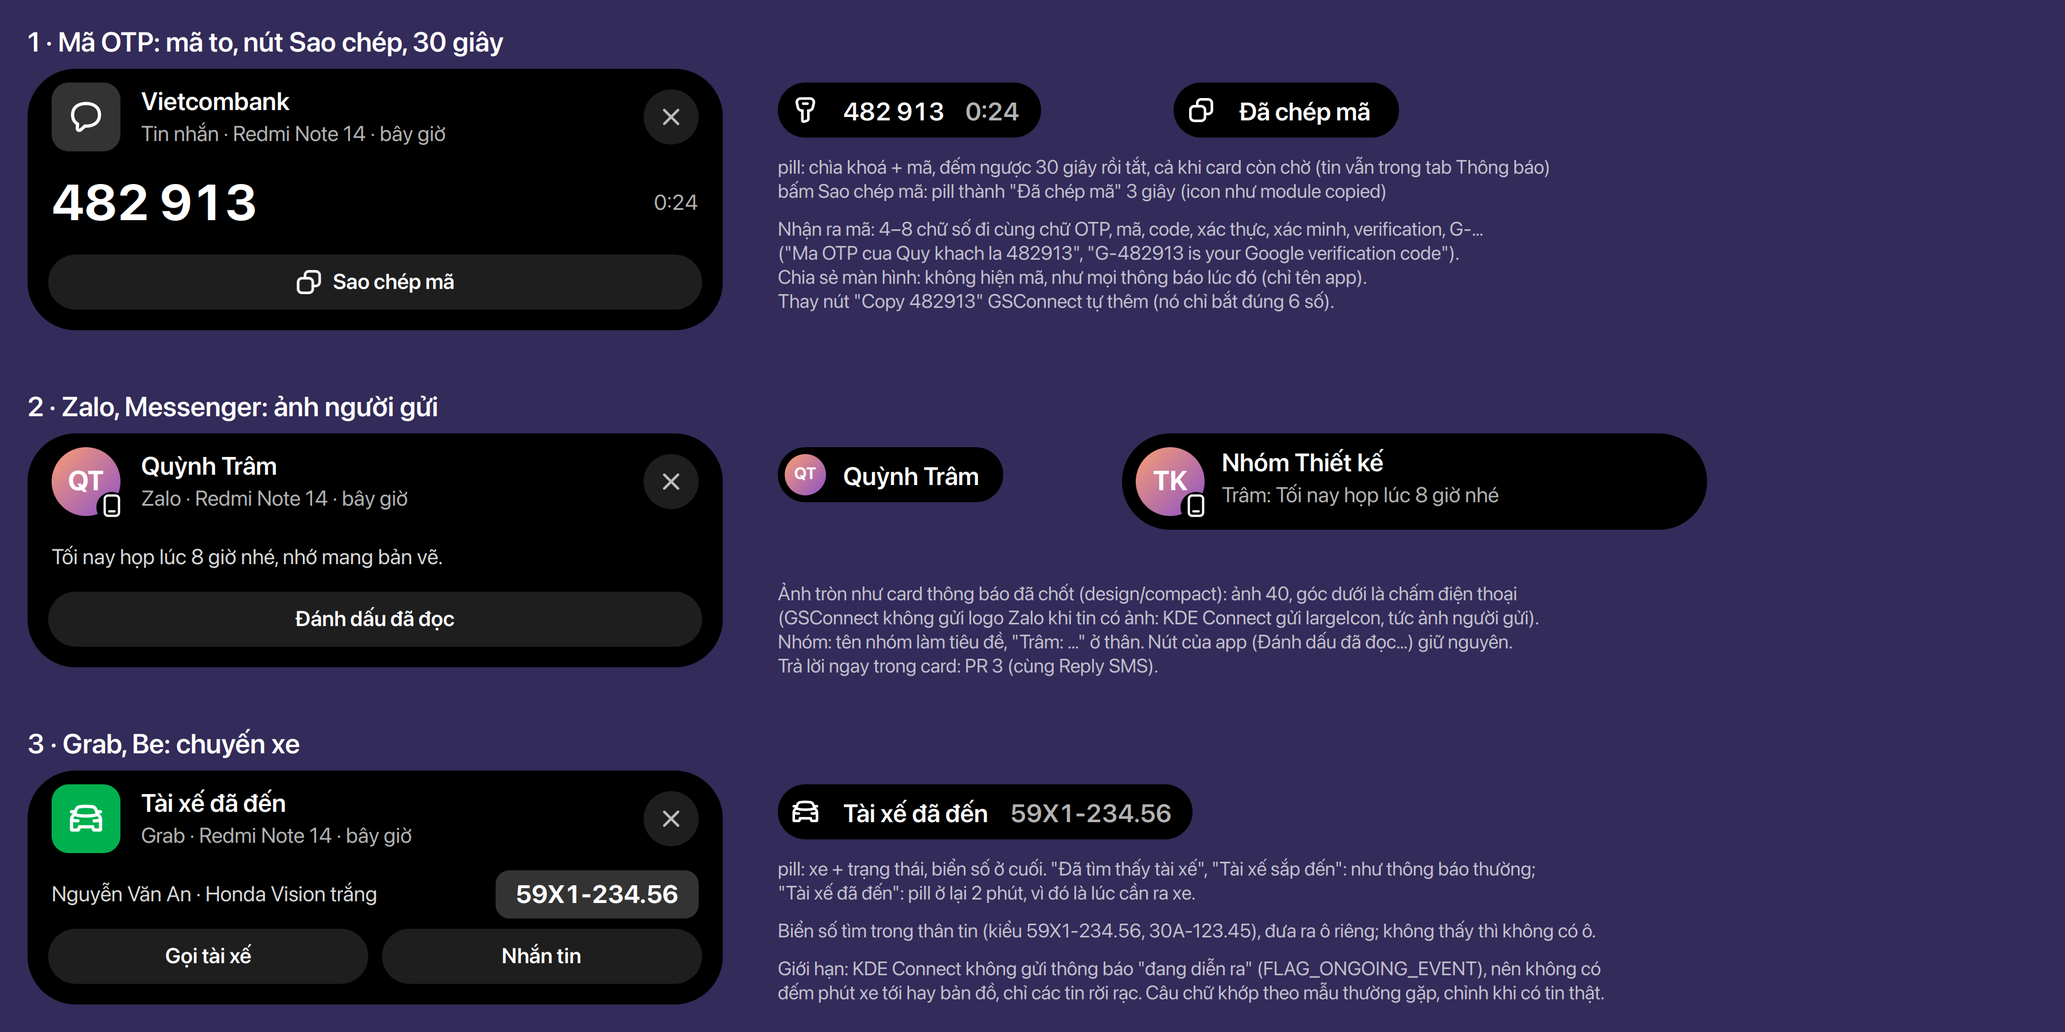
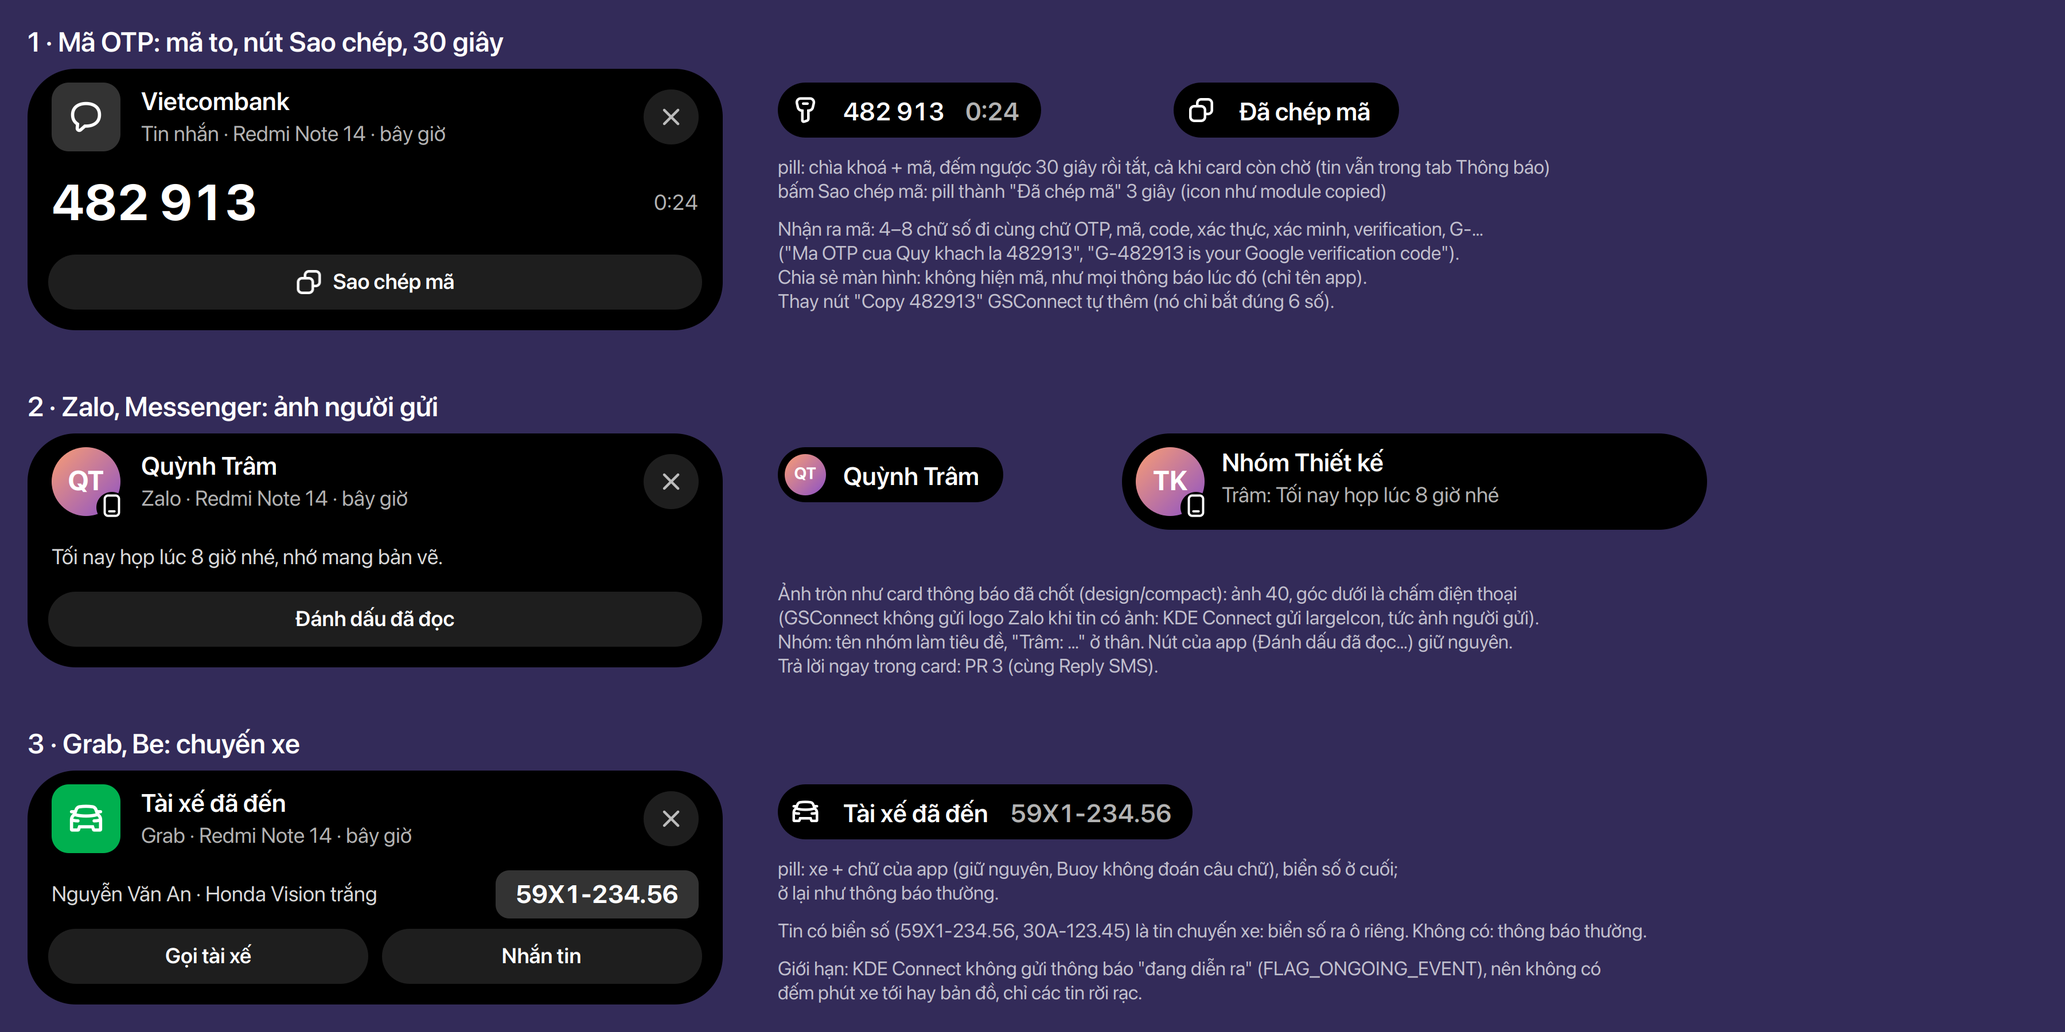
refactor(phone): a ride in the app's own words, the plate alone drawn out
Ethan (2026-11-18): the app says what the ride is at; Buoy no longer reads its wording
(driver found / coming / arrived, and "arrived" staying 2 min are gone). A Grab/Be
message with a licence plate gets the car and the plate (pill end, card tag); anything
else from them is a notification as any other. rideOf dropped; tests, design/device,
FEATURES updated.

Refs: FEATURES.md M4 "Phone via GSConnect" (part 2)

Changed region(s): [[0.3733, 0.84, 0.7778, 0.9644]]

diff --git a/tests/notification.test.js b/tests/notification.test.js
@@ -408,15 +408,18 @@ eq(missedRow(2, [{name: '', icon: 'x'}, {name: 'A', icon: '  '}]).icons, [], 'no
     eq(zalo.notification({...BASE, appName: 'Zalo', phoneImage: photo}).leading, BASE.appIcon, 'a desktop app named Zalo: untouched');
     eq(cardOf(z).card.picture, {type: 'art', gicon: photo, fallback: 'phone-symbolic', round: true}, 'planned: a round art');
 
-    // Grab, Be: a ride
+    // Grab, Be: a ride — the app's own words, the plate drawn out (Ethan, 2026-11-18)
     const arrived = grab.notification(phoneEv({appName: 'Grab · Redmi Note 14', title: 'Tài xế đã đến', body: 'Nguyễn Văn An · Honda Vision trắng · 59X1-234.56'}));
-    eq([arrived.leading, arrived.text, arrived.trailing, arrived.compact.card.tag, arrived.ttl, arrived.attributes.ride],
-        ['route-car-symbolic', 'Tài xế đã đến', {text: '59X1-234.56'}, '59X1-234.56', 120000, 'arrived'], 'Grab arrived: the car, the plate, 2 min');
-    const coming = be.notification(phoneEv({title: 'Tài xế đang đến', body: 'Xe 30A-123.45'}));
-    eq([coming.leading, coming.ttl, coming.compact.card.tag], ['route-car-symbolic', TTL, '30A-123.45'], 'Be coming: the car, as long as any notification');
+    eq([arrived.leading, arrived.text, arrived.trailing, arrived.compact.card.tag, arrived.ttl, arrived.attributes.plate],
+        ['route-car-symbolic', 'Tài xế đã đến', {text: '59X1-234.56'}, '59X1-234.56', TTL, '59X1-234.56'], 'Grab with a plate: the car, its words, the plate');
+    const coming = be.notification(phoneEv({title: 'Your driver is on the way', body: 'Toyota Vios 51F-12345'}));
+    eq([coming.leading, coming.text, coming.ttl, coming.compact.card.tag], ['route-car-symbolic', 'Your driver is on the way', TTL, '51F-12345'],
+        'Be in English: the same, as long as any notification');
+    const noPlate = grab.notification(phoneEv({title: 'Tài xế đã đến', body: 'Tài xế đang chờ bạn'}));
+    eq([noPlate.leading, noPlate.text, noPlate.compact.card.tag], ['phone-symbolic', 'Tài xế đã đến', undefined], 'no plate: a notification as any other, its words');
     const promo = grab.notification(phoneEv({title: 'Giảm 50% cuối tuần', body: 'Nhập mã GRAB50 ngay'}));
     eq([promo.leading, promo.compact.card.tag], ['phone-symbolic', undefined], 'a promotion: a notification as any other');
-    const crit = grab.notification(phoneEv({title: 'Tài xế đã đến', body: '', critical: true}));
+    const crit = grab.notification(phoneEv({title: 'Tài xế đã đến', body: '59X1-234.56', critical: true}));
     eq(crit.ttl, 0, 'critical stays critical (no ttl)');
     eq(grab.notification(phoneEv({title: 'Tài xế đã đến', body: '59X1-234.56', shared: true})).leading, 'phone-symbolic', 'a shared screen: nothing said');
     eq(cardOf(arrived).card.tag, '59X1-234.56', 'planned: the tag reaches the card');

diff --git a/tests/phone.test.js b/tests/phone.test.js
@@ -1,5 +1,5 @@
 // Run: gjs -m tests/phone.test.js   (pure: FEATURES M4 "Phone via GSConnect", parts 1 and 2; design/device "Điện thoại qua GSConnect")
-import {ARRIVED_MS, GSCONNECT_UUID, OTP_MS, batteryState, otpOf, phoneHomePage, phoneNote, phonePage, phoneSetup, phoneTile, plateOf, rideOf, spacedCode, withPhones} from '../src/buoy@murilegus/lib/kit/model/phone.js';
+import {GSCONNECT_UUID, OTP_MS, batteryState, otpOf, phoneHomePage, phoneNote, phonePage, phoneSetup, phoneTile, plateOf, spacedCode, withPhones} from '../src/buoy@murilegus/lib/kit/model/phone.js';
 import {wirelessCell} from '../src/buoy@murilegus/lib/kit/model/devices.js';
 
 function eq(actual, expected, msg) {
@@ -95,14 +95,8 @@ eq([spacedCode('482913'), spacedCode('4829'), spacedCode('12345678'), spacedCode
     'the code as read: two halves from six digits');
 eq(OTP_MS, 30000, 'an OTP stays 30 s');
 
-// --- part 2: a ride (Grab, Be) ------------------------------------------------------------------------
-eq(rideOf('Tài xế đã đến', 'Nguyễn Văn An · Honda Vision trắng · 59X1-234.56'), {state: 'arrived', plate: '59X1-234.56'}, 'ride: arrived, its plate');
-eq(rideOf('Đã tìm thấy tài xế', 'Tài xế Nguyễn Văn An, xe 30A-123.45, đang đến'), {state: 'found', plate: '30A-123.45'}, 'ride: found wins over coming');
-eq(rideOf('Your driver is on the way', 'Toyota Vios 51F-12345'), {state: 'coming', plate: '51F-12345'}, 'ride: English, a plate without a dot');
-eq(rideOf('Your driver has arrived', null), {state: 'arrived', plate: null}, 'ride: arrived, no plate');
-eq(rideOf('Chuyến xe của bạn', '59X1-234.56'), {state: null, plate: '59X1-234.56'}, 'ride: a plate, no state');
-eq(rideOf('Giảm 50% chuyến đi cuối tuần', 'Nhập mã GRAB50'), null, 'a promotion: not a ride');
-eq(rideOf('Ưu đãi hôm nay', 'Đặt món ngay'), null, 'no ride word: not a ride');
-eq([plateOf('xe 59-X1 234.56 màu trắng'), plateOf('gọi 0912345678'), plateOf(null)], ['59-X1 234.56', null, null],
-    'plates: written apart; a phone number is none');
-eq(ARRIVED_MS, 120000, '"arrived" stays 2 min');
+// --- part 2: a ride's licence plate (Grab, Be) -------------------------------------------------------
+eq([plateOf('Nguyễn Văn An · Honda Vision trắng · 59X1-234.56'), plateOf('xe 30A-123.45 đang đến'), plateOf('Toyota Vios 51F-12345')],
+    ['59X1-234.56', '30A-123.45', '51F-12345'], 'plates: with a dot, without');
+eq([plateOf('xe 59-X1 234.56 màu trắng'), plateOf('gọi 0912345678'), plateOf('Nhập mã GRAB50'), plateOf(null)], ['59-X1 234.56', null, null, null],
+    'plates: written apart; a phone number, a promo code: none');

diff --git a/src/buoy@murilegus/lib/modules/notification/adapter.js b/src/buoy@murilegus/lib/modules/notification/adapter.js
@@ -29,7 +29,7 @@
  *   copy(code)   put a phone's one-time code on the clipboard; copied: it is there now
  */
 
-import {ARRIVED_MS, OTP_MS, otpOf, rideOf, spacedCode} from '../../kit/model/phone.js';
+import {OTP_MS, otpOf, plateOf, spacedCode} from '../../kit/model/phone.js';
 
 /**
  * How long a notification's pill stays (§2): its card's 5 s as an alert (the kit's ALERT_MS,
@@ -539,9 +539,11 @@ function withoutPlate(body, plate) {
 }
 
 /**
- * A ride app's (Grab, Be): the car and what the ride is at on the pill, the licence plate at its
- * end and as the card's tag; "arrived" stays 2 min (model/phone.js rideOf). Anything else from it
- * (a promotion) is a notification as any other.
+ * A ride app's (Grab, Be): its own words as they come (Ethan, 2026-11-18: the app says what the
+ * ride is at, Buoy does not read it); a message with a licence plate is a ride's — the car on the
+ * pill, the plate at its end and as the card's tag, out of the message. Anything else from it (a
+ * promotion) is a notification as any other. KDE Connect sends no ongoing notification
+ * (NotificationsPlugin.kt sendNotification drops FLAG_ONGOING_EVENT): no live ETA nor map.
  *
  * @param {object} p  the notification's presentation
  * @param {object} ev
@@ -550,16 +552,15 @@ function withoutPlate(body, plate) {
 export function ride(p, ev) {
     if (!plain(ev) || p.attributes?.code)
         return p;
-    const r = rideOf(p.attributes?.title, p.attributes?.body);
-    if (!r)
+    const plate = plateOf(`${p.attributes?.title ?? ''} · ${p.attributes?.body ?? ''}`);
+    if (!plate)
         return p;
     return {
         ...p,
         leading: CAR_ICON,
-        trailing: r.plate ? {text: r.plate} : p.trailing,
-        compact: {card: {...p.compact.card, ...r.plate ? withoutPlate(p.compact.card.body, r.plate) : {}}},
-        ttl: r.state === 'arrived' && p.ttl > 0 ? ARRIVED_MS : p.ttl,
-        attributes: {...p.attributes, ride: r.state, plate: r.plate},
+        trailing: {text: plate},
+        compact: {card: {...p.compact.card, ...withoutPlate(p.compact.card.body, plate)}},
+        attributes: {...p.attributes, plate},
     };
 }
 

diff --git a/src/buoy@murilegus/lib/kit/model/phone.js b/src/buoy@murilegus/lib/kit/model/phone.js
@@ -249,38 +249,3 @@ const PLATE = /(?<![\p{L}\p{N}])(\d{2}-?[A-Z]{1,2}\d?[- ]?(?:\d{3}\.\d{2}|\d{4,5
 export function plateOf(text) {
     return typeof text === 'string' ? PLATE.exec(text)?.[1] ?? null : null;
 }
-
-const RIDE = /tài xế|tai xe|bác tài|driver|your ride|chuyến xe|chuyến đi/i;
-const ARRIVED = /đã (?:đến|tới)|has arrived|have arrived|is here|is waiting|đang (?:chờ|đợi) bạn/i;
-const FOUND = /(?:đã )?tìm (?:thấy|được) tài xế|đã nhận chuyến|driver found|found (?:you )?a driver|accepted your/i;
-const COMING = /đang (?:đến|tới)|sắp (?:đến|tới)|on (?:the|their|his|her) way|arriving|is coming/i;
-
-/** How long "the driver has arrived" stays: it is when you go out. */
-export const ARRIVED_MS = 120000;
-
-/**
- * A ride app's notification (Grab, Be): KDE Connect sends no ongoing one (NotificationsPlugin.kt
- * sendNotification drops FLAG_ONGOING_EVENT), so no live ETA nor map — only the ones that come
- * and go: a driver found, on the way, arrived.
- *
- * @param {*} title
- * @param {*} body
- * @returns {?{state: ?('found'|'coming'|'arrived'), plate: ?string}} null: not about a ride (a promotion)
- */
-export function rideOf(title, body) {
-    const text = [title, body].filter(x => typeof x === 'string').join(' · ');
-    const plate = plateOf(text);
-    if (!plate && !RIDE.test(text))
-        return null;
-    /** @type {?('found'|'coming'|'arrived')} */
-    let state = null;
-    if (ARRIVED.test(text))
-        state = 'arrived';
-    else if (FOUND.test(text))
-        state = 'found';
-    else if (COMING.test(text))
-        state = 'coming';
-    if (!state && !plate)
-        return null;
-    return {state, plate};
-}

diff --git a/docs/design/device/render/apps.js b/docs/design/device/render/apps.js
@@ -123,9 +123,9 @@ fill(C.FILL3, 16 + KW - 132, y + 58, 118, 28, 8);
 text('59X1-234.56', 16 + KW - 73 - text('59X1-234.56', 0, 0, {wt: 700, measure: true, tnum: true}).width / 2, y + 63, {wt: 700, tnum: true});
 buttons(16, y + 92, [[null, 'Gọi tài xế'], [null, 'Nhắn tin']]);
 pill(PX, y + 8, glyph('car'), 'Tài xế đã đến', '59X1-234.56');
-note('pill: xe + trạng thái, biển số ở cuối. "Đã tìm thấy tài xế", "Tài xế sắp đến": như thông báo thường;', PX, y + 50);
-note('"Tài xế đã đến": pill ở lại 2 phút, vì đó là lúc cần ra xe.', PX, y + 64);
-note('Biển số tìm trong thân tin (kiểu 59X1-234.56, 30A-123.45), đưa ra ô riêng; không thấy thì không có ô.', PX, y + 86);
+note('pill: xe + chữ của app (giữ nguyên, Buoy không đoán câu chữ), biển số ở cuối;', PX, y + 50);
+note('ở lại như thông báo thường.', PX, y + 64);
+note('Tin có biển số (59X1-234.56, 30A-123.45) là tin chuyến xe: biển số ra ô riêng. Không có: thông báo thường.', PX, y + 86);
 note('Giới hạn: KDE Connect không gửi thông báo "đang diễn ra" (FLAG_ONGOING_EVENT), nên không có', PX, y + 108);
-note('đếm phút xe tới hay bản đồ, chỉ các tin rời rạc. Câu chữ khớp theo mẫu thường gặp, chỉnh khi có tin thật.', PX, y + 122);
+note('đếm phút xe tới hay bản đồ, chỉ các tin rời rạc.', PX, y + 122);
 surf.writeToPNG(out);

diff --git a/docs/FEATURES.md b/docs/FEATURES.md
@@ -62,7 +62,7 @@ to their places there (2026-11-12, Ethan).
 | [x] | Claude Code Desktop's plan | the Desktop app's own task list (its `update_plan` tool: a whole plan, advance, done/start) read as Claude's task list — the pill's step and progress, the compact's rows; CODING-AGENTS updated |
 | [x] | The tab strip | Home · Media · Notifications · Calendar · Devices (both pinned by default, out of ⋯; Devices "Coming soon" until its item), then the live tabs (Claude Code, Transfers, unclaimed kinds) only while they have activities, the slot last (Clipboard until chosen from ⋯), Timer in ⋯; SPEC §2b updated |
 | [x] | Device tab | as design/device (drawn 2026-11-16, Ethan: a column per group, "+N" past 3 at 1920, the battery's watts, a UPS on a desktop, This computer only battery and power mode; networks kept to "VPN / Wi-Fi / captive portal"): the tab itself (pinned after Calendar, "Coming soon" until now), its three groups (This computer: battery, power mode; Wireless: Bluetooth devices, the phone as a device — its battery, find it; Plugged: drives, phones, webcams, displays, headphones) and how each row looks, empty groups hidden; it shows what the modules below bring, each part implemented in its own item ("Power", "Bluetooth device", "Headphones / display plugged", "USB / phone / webcam plugged", "Phone via GSConnect" for the phone's battery, #215's power mode). Calls, messages and rides stay in the Phone tab |
-| [~] | Phone via GSConnect | Grab/Be ride, OTP (30 s), Zalo/Messenger with avatar, call Mute/Reply SMS; adapters in `modules/notification/apps/` (2026-11-18); its own Phone tab for calls, messages and rides (2026-11-13), the phone's battery in the Device tab. In three parts (Ethan, 2026-11-17). Part 1 done, design/device "Điện thoại qua GSConnect": the phone from GSConnect's own service in the Device tab's Wireless column (its exact battery, charging; one cell with its Bluetooth self) with a page (Find My Phone, GSConnect's settings); its notifications under the phone app (Zalo, Messenger…), the sender as the title, "Zalo · Redmi Note 14"; prefs say what is missing (install, turn on, pair, connect); Home's phone tile after the battery's (its battery, a click: Find My Phone). Part 2 done, design/device "Ứng dụng trên điện thoại" (2026-11-18): an OTP code from any phone app (4–8 digits by a code word) — key, code, 30 s countdown, Copy Code, "Code Copied"; Zalo/Messenger with the sender's photo, round; a Grab/Be ride (driver found, coming, arrived 2 min) with its plate — adapters in `modules/notification/apps/` (the phone's notifications live in the notification module). Left: part 3, calls (Mute, Reply SMS) and the Phone tab |
+| [~] | Phone via GSConnect | Grab/Be ride, OTP (30 s), Zalo/Messenger with avatar, call Mute/Reply SMS; adapters in `modules/notification/apps/` (2026-11-18); its own Phone tab for calls, messages and rides (2026-11-13), the phone's battery in the Device tab. In three parts (Ethan, 2026-11-17). Part 1 done, design/device "Điện thoại qua GSConnect": the phone from GSConnect's own service in the Device tab's Wireless column (its exact battery, charging; one cell with its Bluetooth self) with a page (Find My Phone, GSConnect's settings); its notifications under the phone app (Zalo, Messenger…), the sender as the title, "Zalo · Redmi Note 14"; prefs say what is missing (install, turn on, pair, connect); Home's phone tile after the battery's (its battery, a click: Find My Phone). Part 2 done, design/device "Ứng dụng trên điện thoại" (2026-11-18): an OTP code from any phone app (4–8 digits by a code word) — key, code, 30 s countdown, Copy Code, "Code Copied"; Zalo/Messenger with the sender's photo, round; a Grab/Be ride in the app's own words, the car and the plate when it has one — adapters in `modules/notification/apps/` (the phone's notifications live in the notification module). Left: part 3, calls (Mute, Reply SMS) and the Phone tab |
 | [ ] | Attention on another workspace | click switches workspace and focuses (Mutter `demands-attention`) |
 | [x] | Headphones / display plugged | as design/compact "Cắm màn hình và tai nghe" (2026-11-15, Ethan). **Display**: Mutter's own monitors (`global.backend.get_monitor_manager()`: `get_monitors()` → Meta.Monitor display name, connector, built-in; `monitors-changed`), signals only; plugged: its compact opens on its own (an alert, 2026-11-15) with three buttons — Join / Mirror / External Only, no Built-in Only — through `switch_config`, as GNOME's Super+P switcher (switchMonitor.js), and the pill with its name ("ViewSonic 27″"); unplugged: a flash; both stay until the first input after the plug, then 3 s (the screens go dark meanwhile; every flash 3 s, 2026-11-16). **Headphones**: a 3 s flash with the volume (the HUD's bar and number, 2026-11-17) when the output moves to headphones (jack or USB; Bluetooth's are the "Bluetooth device" flash) and when they are unplugged or gone ("Unplugged Headphones", "Disconnected WH-1000XM4", with the speakers' level, 2026-11-16) or the sound is switched back to the speakers, from Shell's own Gvc mixer (ui/status/volume.js), in place of the volume OSD GNOME shows then; headphones plugged in that the sound does not use yet (the card kept its speaker profile) open a compact with Use (`change_output`). Display hot plug, a 3.5 mm jack (Use the first time, the switch flash after) checked on real hardware (Ethan, 2026-11-15/16). The combo-jack dialog stays GNOME's (Deferred, 2026-11-16); both are listed in the Device tab's Plugged group with that item |
 | [x] | Buoy light, the rest | red's hover: the waiting ask's own card, answered there (design/pill); away (GNOME's session idle, after `idle-delay`) and DND count endings as missed (`stack.setAway()`; the lock screen disables Buoy), with the presence watch of "Notifications as alerts" (INDICATORS, design/alerts-and-asks) |

diff --git a/docs/design/device/index.vi.md b/docs/design/device/index.vi.md
@@ -162,12 +162,12 @@ phần 3 là cuộc gọi và tab Điện thoại).*
 - **Zalo, Messenger**: ảnh KDE Connect gửi là ảnh người gửi (`largeIcon`), nên vẽ tròn: 24 trong pill,
   40 trong card với chấm điện thoại ở góc (huy hiệu của card thông báo, design/compact). Không có ảnh
   (icon theo theme): như phần 1. Nhóm: tên nhóm là tiêu đề, "Trâm: …" ở thân. **Chốt**
-- **Grab, Be**: chỉ các tin rời rạc (tìm thấy tài xế, đang đến, đã đến): pill có icon xe (`car` của
-  Gravity, file `route-car-symbolic`), trạng thái, biển số ở cuối; card đưa biển số ra một ô `fill-3`
-  cuối dòng thân tin và bỏ nó khỏi chữ. "Đã đến" ở lại 2 phút, còn lại như thông báo thường. Tin khác
-  của app (khuyến mãi) như thông báo thường. Câu chữ khớp theo mẫu thường gặp (tiếng Việt, tiếng Anh);
-  chỉnh khi có tin thật. Không có đếm phút xe tới hay bản đồ: KDE Connect không gửi tin "đang diễn ra".
-  **Chốt**
+- **Grab, Be**: chữ của app giữ nguyên, Buoy không đoán câu chữ (tìm thấy, đang đến, đã đến). Tin có
+  biển số (59X1-234.56, 30A-123.45, 51F-12345) là tin chuyến xe: pill có icon xe (`car` của Gravity, file
+  `route-car-symbolic`) và biển số ở cuối; card đưa biển số ra một ô `fill-3` cuối dòng thân tin và bỏ
+  nó khỏi chữ. Ở lại như thông báo thường. Tin không có biển số (khuyến mãi…) như thông báo thường.
+  Không có đếm phút xe tới hay bản đồ: KDE Connect không gửi tin "đang diễn ra". **Chốt** (Ethan,
+  2026-11-18: câu chữ thật để app tự hiển thị)
 - Trả lời ngay trong card (Zalo, Messenger, SMS): phần 3.
 
 ## Mục này làm gì
@@ -201,7 +201,7 @@ Tab và khuôn của nó, với những gì đã có: **Máy này** (pin, công 
 - `lib/kit/services/gsconnect.js` — dịch vụ của GSConnect: điện thoại, pin, `ring`; mở cài đặt của nó.
 - `lib/modules/notification/source.js` `noteOf` — thông báo điện thoại dưới app của nó (pill, card, tab);
   Copy Code, pill OTP tắt khi đếm về 0.
-- `lib/kit/model/phone.js` `otpOf`, `rideOf`, `plateOf` — mã OTP, chuyến xe, biển số (`tests/phone.test.js`).
+- `lib/kit/model/phone.js` `otpOf`, `plateOf` — mã OTP, biển số (`tests/phone.test.js`).
 - `lib/modules/notification/adapter.js` (OTP, `senderPicture`, `ride`) và `apps/zalo.js`, `messenger.js`,
   `grab.js`, `be.js` — theo tên app GSConnect đưa (`tests/notification.test.js`).
 - `scripts/phone-notification.sh` — giả một thông báo điện thoại như GSConnect đưa lên (Grab, Be, OTP,
